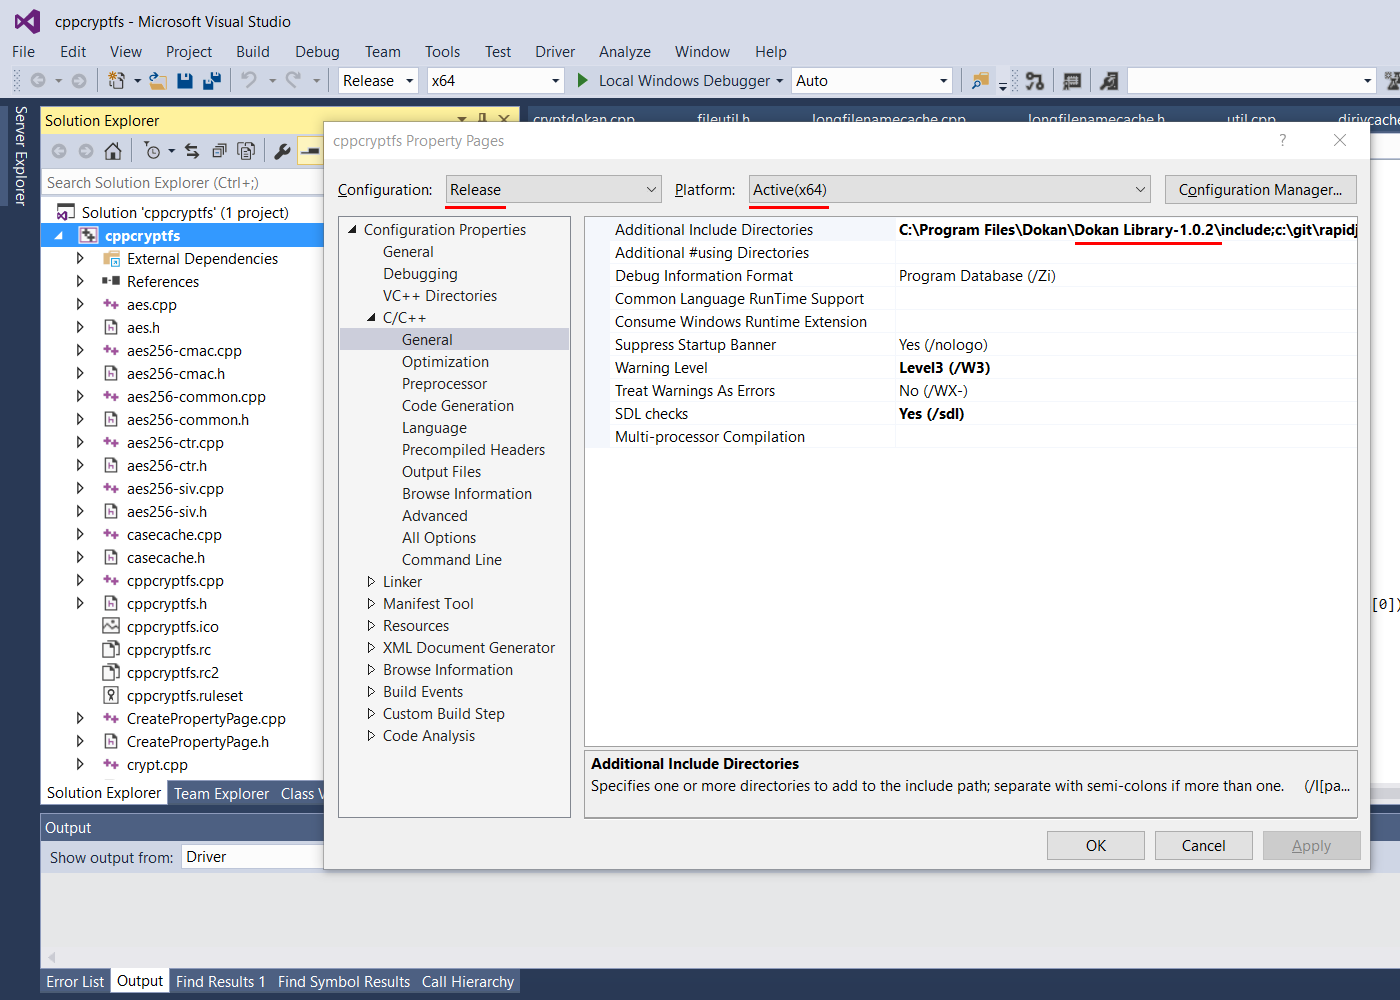
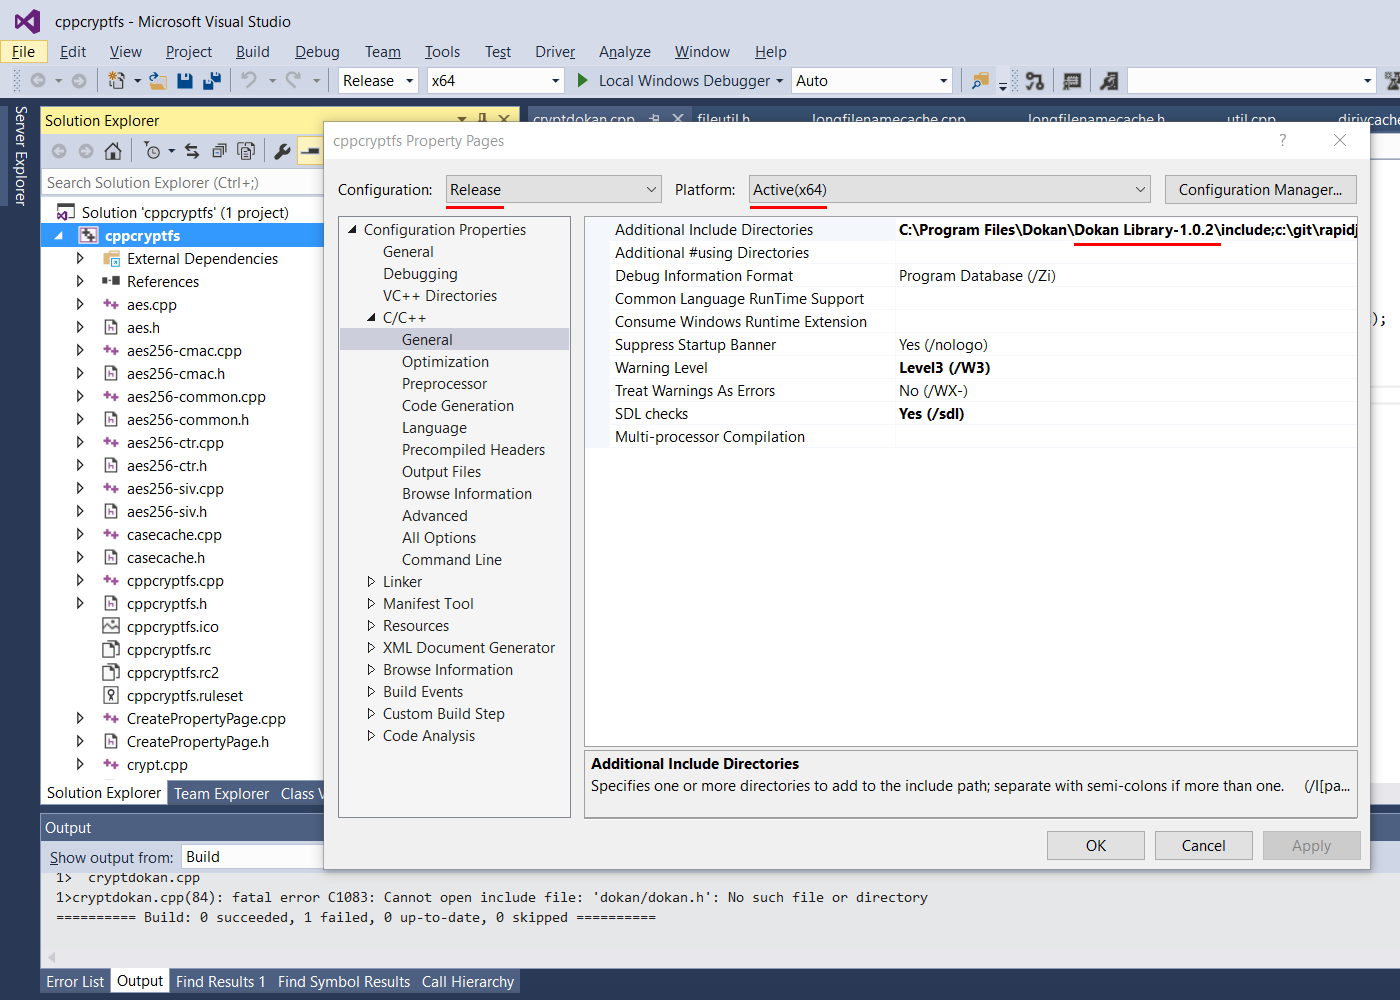
add info about library paths

Changed region(s): [[0.0307, 0.837, 0.4914, 0.93], [0.9829, 0.589, 1.0, 0.62], [0.0, 0.031, 0.0307, 0.062]]

diff --git a/INSTALL.md b/INSTALL.md
@@ -131,9 +131,16 @@ There is no installation program for cppcryptfs.  You will need to copy cppcrypt
 
 A 32-bit build should work.  However, it has not been tested in a while.
 
-Whenever Dokany releases a new version, they install their header files in a directory that has the Dokany version number in its name.  Therefore, if cppcryptfs gets behind the current Dokany version, even a minor one, then you will need to change the include paths in the cppcryptfs Visual Studio project.  To do this, in Visual Studio, right click on "cppcryptfs" in the Solution Explorer pane.  Then select Properties and go to "C/C++" then "General".  Then edit "Additional Include Directories" so that the current Dokany version is there in the path for the Dokany header files.  Make sure you have selected the Configuration and Platform that you are actually building for when you do this.
+Whenever Dokany releases a new version, they install their header and library files in a path that has the Dokany version number in its name.  Therefore, if cppcryptfs gets behind the current Dokany version, even a minor one, then you will need to change the include and library paths in the cppcryptfs Visual Studio project.  
 
-Here is a link to a screenshot showing this: [Visual Studio include paths screenshot](/screenshots/include_paths.png?raw=true"). Note: the screenshot was made when 1.0.2 was the current Dokany version.  It is no longer the current Dokany version.
+To change the include path in Visual Studio, right click on "cppcryptfs" in the Solution Explorer pane.  Then select Properties and go to "C/C++" then "General".  Then edit "Additional Include Directories" so that the current Dokany version is there in the path for the Dokany header files.  Make sure you have selected the Configuration and Platform that you are actually building for when you do this.
+
+To change the library path, go to "Linker" and then "Input" and edit "Additional Dependencies".
+
+Here are links to screenshots: 
+[Visual Studio include paths screenshot](/screenshots/include_paths.png?raw=true") 
+[Visual Studio library paths screenshot](/screenshots/library_paths.png?raw=true"). 
+Note: the screenshots were made when 1.0.2 was the current Dokany version.  It is no longer the current Dokany version.
 
 
 The default (master) branch of cppcryptfs is for building with the Dokany binary release.  
